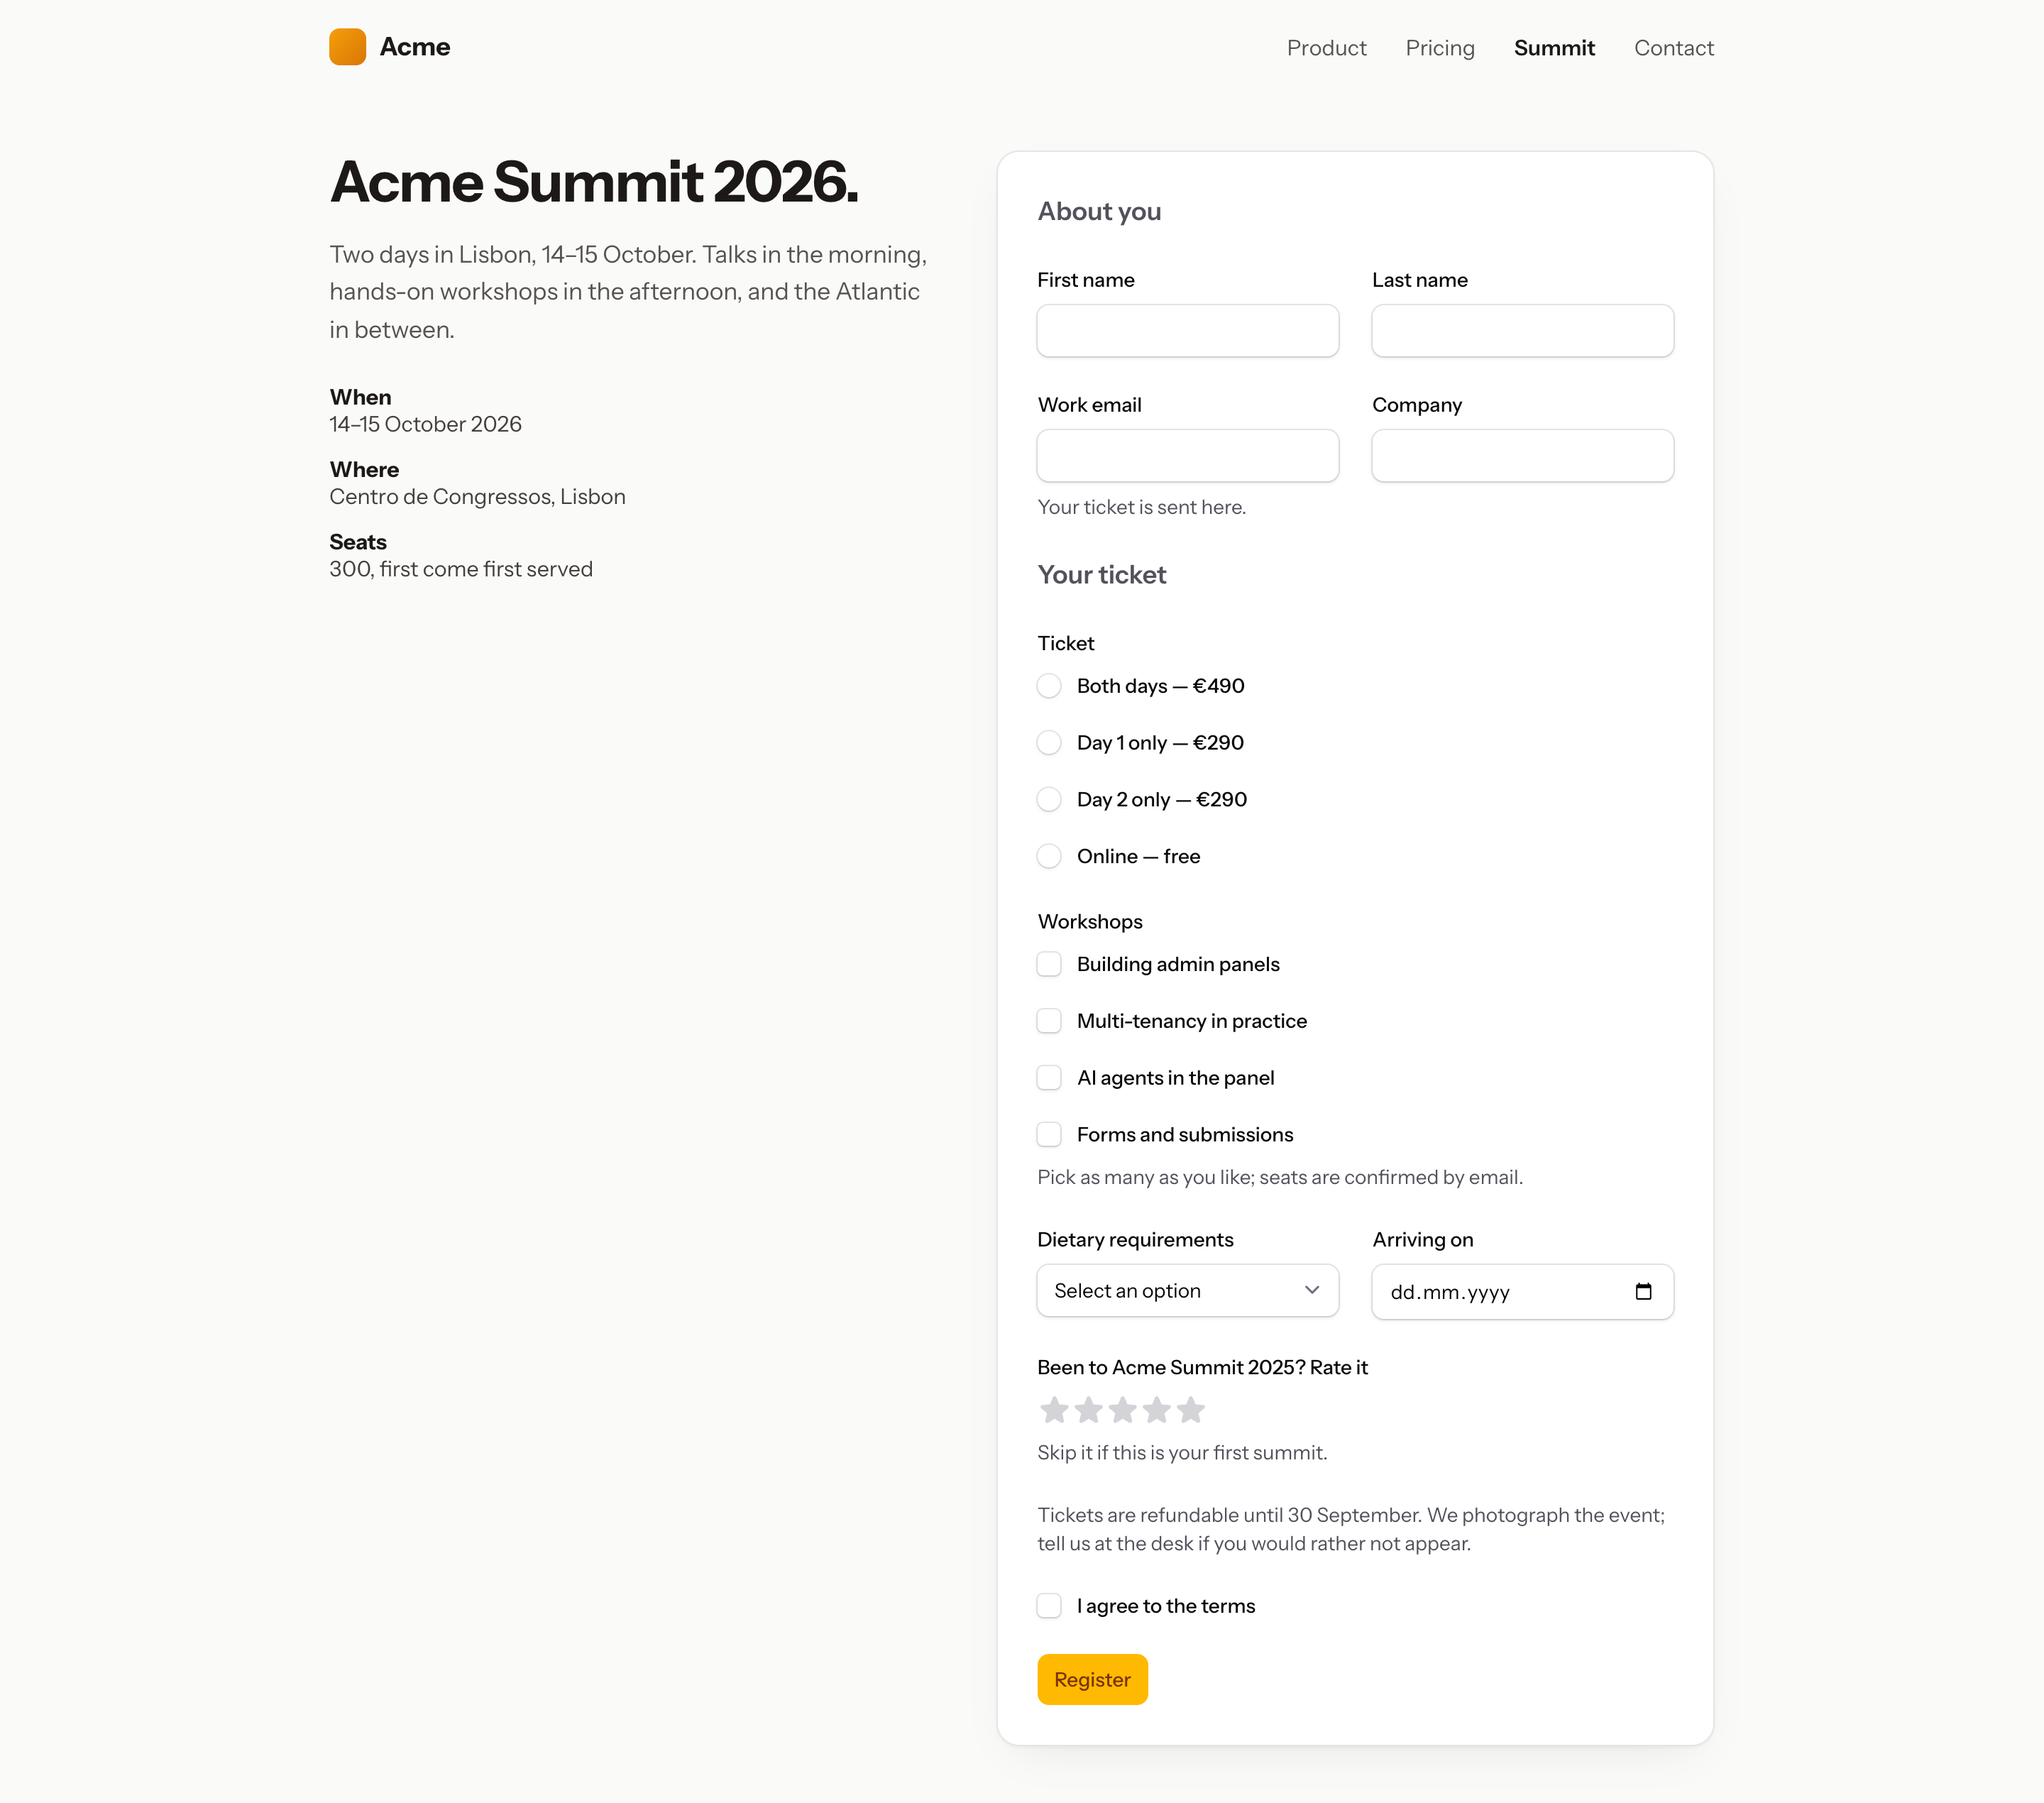
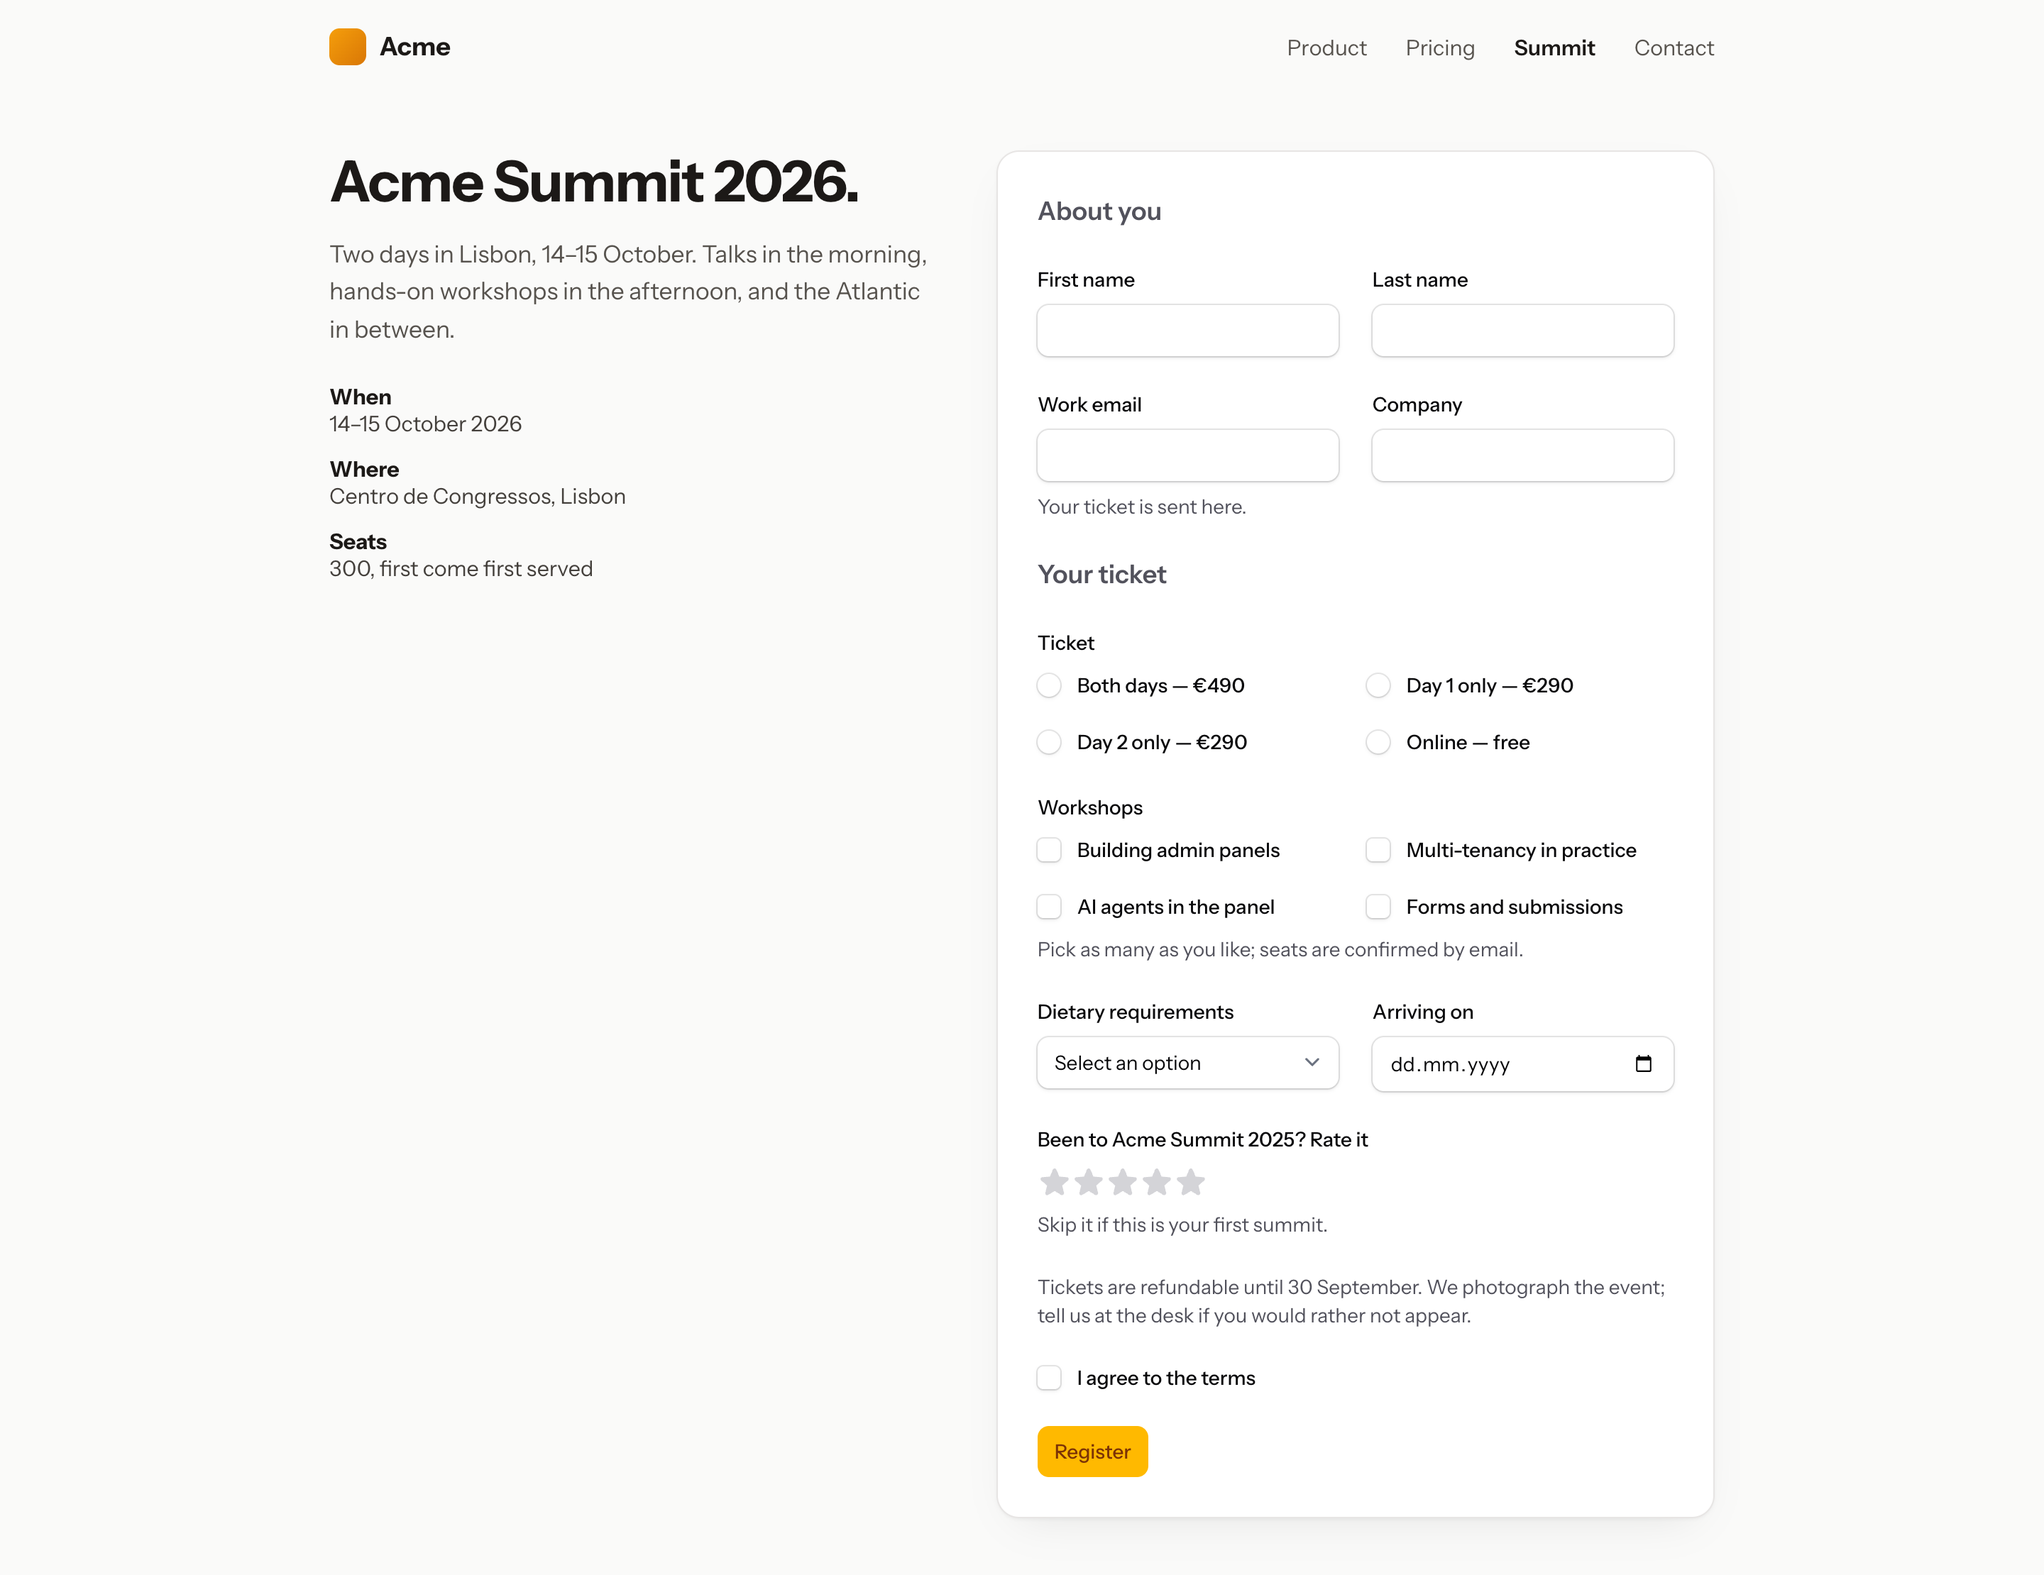
Columns setting on radio buttons and checkbox lists (1 to 4): Filament's column layout in the Livewire renderer and the panel, a CSS grid in the Blade renderer that drops to one column under 640 px; rating-submissions and site-livewire screenshots retaken shorter

diff --git a/resources/css/form-builder.css b/resources/css/form-builder.css
@@ -33,6 +33,7 @@
 .fb-form .fb-fieldset{border:0;padding:0;margin:0;display:flex;flex-direction:column;gap:.375rem;min-width:0}
 .fb-form .fb-fieldset legend{padding:0;margin-bottom:.375rem}
 .fb-form .fb-choices{display:flex;flex-direction:column;gap:.5rem}
+@media (min-width:640px){.fb-form .fb-choices--columns{display:grid;grid-template-columns:repeat(var(--fb-choice-columns),minmax(0,1fr));gap:.5rem 1rem}}
 .fb-form .fb-address__parts{display:grid;grid-template-columns:repeat(2,minmax(0,1fr));gap:.75rem 1rem}
 .fb-form .fb-address__part{display:flex;flex-direction:column;gap:.25rem;min-width:0;grid-column:span 2}
 @media (min-width:640px){.fb-form .fb-address__part--city,.fb-form .fb-address__part--region,.fb-form .fb-address__part--postal-code,.fb-form .fb-address__part--country{grid-column:span 1}}

diff --git a/tests/Feature/FieldTypesTest.php b/tests/Feature/FieldTypesTest.php
@@ -65,3 +65,19 @@ it('formats values through the field type', function (): void {
         ->and($checkbox->type->format(true, $checkbox))->toBe('Yes')
         ->and($checkbox->type->format(false, $checkbox))->toBe('No');
 });
+
+it('gives radio buttons and checkbox lists a number of columns, toggle buttons none', function (): void {
+    $registry = app(FieldTypeRegistry::class);
+    $radio = Field::fromArray(field('radio', 'Ticket', ['choices' => ['a' => 'A'], 'columns' => '3']), $registry);
+    $list = Field::fromArray(field('checkboxes', 'Workshops', ['choices' => ['a' => 'A'], 'columns' => 2]), $registry);
+    $plain = Field::fromArray(field('radio', 'Plain', ['choices' => ['a' => 'A']]), $registry);
+    $buttons = Field::fromArray(field('toggle_buttons', 'Size', ['choices' => ['a' => 'A'], 'columns' => 3]), $registry);
+
+    expect($radio->type->choiceColumns($radio))->toBe(3)
+        ->and($radio->type->formComponent($radio)->getColumns('sm'))->toBe(3)
+        ->and($list->type->formComponent($list)->getColumns('sm'))->toBe(2)
+        ->and($plain->type->choiceColumns($plain))->toBe(1)
+        ->and($buttons->type->choiceColumns($buttons))->toBe(1)
+        ->and(collect($registry->get('radio')->editorSchema())->map->getName()->all())->toContain('columns')
+        ->and(collect($registry->get('toggle_buttons')->editorSchema())->map->getName()->all())->not->toContain('columns');
+});

diff --git a/src/Fields/Types/CheckboxesField.php b/src/Fields/Types/CheckboxesField.php
@@ -4,6 +4,7 @@ namespace Packstub\FormBuilder\Fields\Types;
 
 use Filament\Forms\Components\CheckboxList;
 use Filament\Schemas\Components\Component;
+use Filament\Support\Enums\GridDirection;
 use Packstub\FormBuilder\Fields\Concerns\HasChoices;
 use Packstub\FormBuilder\Fields\Field;
 use Packstub\FormBuilder\Fields\FieldType;
@@ -20,6 +21,11 @@ class CheckboxesField extends FieldType
     public function icon(): string
     {
         return 'heroicon-o-list-bullet';
+    }
+
+    public function hasChoiceColumns(): bool
+    {
+        return true;
     }
 
     public function hasPlaceholder(): bool
@@ -68,6 +74,12 @@ class CheckboxesField extends FieldType
 
     public function formComponent(Field $field): Component
     {
-        return $this->configure(CheckboxList::make($field->key)->options($field->choices()), $field);
+        $list = CheckboxList::make($field->key)->options($field->choices());
+
+        if (($columns = $this->choiceColumns($field)) > 1) {
+            $list->columns(['default' => 1, 'sm' => $columns])->gridDirection(GridDirection::Row);
+        }
+
+        return $this->configure($list, $field);
     }
 }

diff --git a/src/Fields/Concerns/HasChoices.php b/src/Fields/Concerns/HasChoices.php
@@ -44,7 +44,31 @@ trait HasChoices
                 ->required($manual)
                 ->visible($manual)
                 ->columnSpanFull(),
+            ...($this->hasChoiceColumns() ? [
+                Select::make('columns')
+                    ->label(__('packstub-form-builder::form-builder.editor.choice_columns'))
+                    ->helperText(__('packstub-form-builder::form-builder.editor.choice_columns_hint'))
+                    ->options(array_combine(range(1, 4), array_map('strval', range(1, 4))))
+                    ->default(1)
+                    ->selectablePlaceholder(false),
+            ] : []),
         ];
+    }
+
+    /**
+     * Whether the choices can be laid out in several columns (radio buttons, checkbox list).
+     */
+    public function hasChoiceColumns(): bool
+    {
+        return false;
+    }
+
+    /**
+     * The number of columns the choices are laid out in, from 1 to 4.
+     */
+    public function choiceColumns(Field $field): int
+    {
+        return $this->hasChoiceColumns() ? max(1, min(4, (int) ($field->option('columns') ?: 1))) : 1;
     }
 
     /**

diff --git a/src/Fields/Types/RadioField.php b/src/Fields/Types/RadioField.php
@@ -4,6 +4,7 @@ namespace Packstub\FormBuilder\Fields\Types;
 
 use Filament\Forms\Components\Radio;
 use Filament\Schemas\Components\Component;
+use Filament\Support\Enums\GridDirection;
 use Packstub\FormBuilder\Fields\Concerns\HasChoices;
 use Packstub\FormBuilder\Fields\Field;
 use Packstub\FormBuilder\Fields\FieldType;
@@ -22,6 +23,11 @@ class RadioField extends FieldType
         return 'heroicon-o-check-circle';
     }
 
+    public function hasChoiceColumns(): bool
+    {
+        return true;
+    }
+
     public function hasPlaceholder(): bool
     {
         return false;
@@ -34,6 +40,12 @@ class RadioField extends FieldType
 
     public function formComponent(Field $field): Component
     {
-        return $this->configure(Radio::make($field->key)->options($field->choices()), $field);
+        $radio = Radio::make($field->key)->options($field->choices());
+
+        if (($columns = $this->choiceColumns($field)) > 1) {
+            $radio->columns(['default' => 1, 'sm' => $columns])->gridDirection(GridDirection::Row);
+        }
+
+        return $this->configure($radio, $field);
     }
 }

diff --git a/tests/Feature/BladeComponentTest.php b/tests/Feature/BladeComponentTest.php
@@ -112,3 +112,16 @@ it('scopes every stylesheet rule under .fb-form', function (): void {
         }
     }
 });
+
+it('lays radio buttons and a checkbox list out in columns', function (): void {
+    contactForm(['fields' => [
+        field('radio', 'Ticket', ['choices' => ['a' => 'A', 'b' => 'B'], 'columns' => 2]),
+        field('checkboxes', 'Workshops', ['choices' => ['a' => 'A', 'b' => 'B'], 'columns' => '9']),
+        field('radio', 'Plain', ['choices' => ['a' => 'A']]),
+    ]]);
+
+    $html = $this->get('/contact-us')->assertOk()->getContent();
+
+    expect($html)
+        ->toContain('<div class="fb-choices fb-choices--columns" style="--fb-choice-columns: 2">', 'style="--fb-choice-columns: 4"', '<div class="fb-choices">', '.fb-choices--columns{');
+});

diff --git a/resources/views/fields/radio.blade.php b/resources/views/fields/radio.blade.php
@@ -5,7 +5,11 @@
             <span class="fb-required" aria-hidden="true">*</span>
         @endif
     </legend>
-    <div class="fb-choices">
+    @if (($columns = $field->type->choiceColumns($field)) > 1)
+        <div class="fb-choices fb-choices--columns" style="--fb-choice-columns: {{ $columns }}">
+    @else
+        <div class="fb-choices">
+    @endif
         @foreach ($field->choices() as $choiceValue => $choiceLabel)
             <label class="fb-choice" for="{{ $inputId }}-{{ $loop->index }}">
                 <input type="radio" id="{{ $inputId }}-{{ $loop->index }}" name="{{ $field->key }}" value="{{ $choiceValue }}" @checked((string) $value === (string) $choiceValue) @if ($field->required && ! $field->isConditional()) required @endif>

diff --git a/resources/views/fields/checkboxes.blade.php b/resources/views/fields/checkboxes.blade.php
@@ -6,7 +6,11 @@
             <span class="fb-required" aria-hidden="true">*</span>
         @endif
     </legend>
-    <div class="fb-choices">
+    @if (($columns = $field->type->choiceColumns($field)) > 1)
+        <div class="fb-choices fb-choices--columns" style="--fb-choice-columns: {{ $columns }}">
+    @else
+        <div class="fb-choices">
+    @endif
         @foreach ($field->choices() as $choiceValue => $choiceLabel)
             <label class="fb-choice" for="{{ $inputId }}-{{ $loop->index }}">
                 <input type="checkbox" id="{{ $inputId }}-{{ $loop->index }}" name="{{ $field->key }}[]" value="{{ $choiceValue }}" @checked(in_array((string) $choiceValue, $selected, true))>

diff --git a/resources/lang/en/form-builder.php b/resources/lang/en/form-builder.php
@@ -238,6 +238,8 @@ return [
         'accepted_types_hint' => 'Comma-separated extensions or MIME types. Empty accepts any.',
         'max_kb' => 'Maximum size (KB)',
         'inline' => 'Show the choices on one line',
+        'choice_columns' => 'Columns',
+        'choice_columns_hint' => 'Lay the choices out in up to four columns; one on small screens.',
         'link_text' => 'Link text',
         'link_url' => 'Link URL',
         'countries' => 'Countries',

diff --git a/src/Fields/Types/ToggleButtonsField.php b/src/Fields/Types/ToggleButtonsField.php
@@ -21,6 +21,11 @@ class ToggleButtonsField extends RadioField
         return 'heroicon-o-squares-2x2';
     }
 
+    public function hasChoiceColumns(): bool
+    {
+        return false;
+    }
+
     public function view(): string
     {
         return 'packstub-form-builder::fields.toggle-buttons';

diff --git a/CHANGELOG.md b/CHANGELOG.md
@@ -7,10 +7,11 @@ All notable changes to `packstub/filament-form-builder` are documented here.
 ### Added
 
 - **Rating with packstub/filament-rating** (#14): when the package is installed, the Rating field uses its star input in the Livewire renderer and the preview, a star column with the average and the distribution in the submissions table, a "4 stars & up" filter and stars in the submission details. The star column sorts by the score as a number (10 after 9, also on MySQL and Postgres). Detected, never required; the stored score is unchanged, so installing or removing the package changes only how ratings look. A field type can give its own details entry with `detailEntry()`.
+- **Choices in columns**: radio buttons and a checkbox list lay their choices out in up to four columns (**Columns** on the field), in the Blade and the Livewire renderers and the panel; one column on small screens. Stored in the field's options, so the JSON definition carries it too.
 
 ### Changed
 
-- **Docs**: a shorter Features list in the README and on the docs index, one line per area; the field types sit in a table under Building a form. Screenshots of the star input and the star column (`rating-input.png`, `rating-submissions.png`) under With packstub/filament-rating; the Livewire screenshot shows a rating field.
+- **Docs**: a shorter Features list in the README and on the docs index, one line per area; the field types sit in a table under Building a form. Screenshots of the star input and the star column (`rating-input.png`, `rating-submissions.png`) under With packstub/filament-rating; the Livewire screenshot shows a rating field and the ticket and workshop choices in two columns; the star column screenshot without the Summary and answer columns, one line per row.
 
 ## 1.3.0 — 2026-10-01
 

diff --git a/docs/building-forms.md b/docs/building-forms.md
@@ -22,11 +22,11 @@ Open **Forms**, create one, and add fields from the block picker on the **Fields
 | Rich text | HTML (safe tags only) | Rows; a rich editor in the Livewire renderer, a text area elsewhere |
 | Dropdown | one choice | Choices (value → label) |
 | Multi-select | list of choices | Choices |
-| Radio buttons | one choice | Choices |
+| Radio buttons | one choice | Choices, in up to four columns |
 | Toggle buttons | one choice | Choices, shown as a row of buttons |
 | Checkbox | true / false | Required means it must be ticked |
 | Toggle | true / false | A switch; same value as a checkbox |
-| Checkbox list | list of choices | Choices |
+| Checkbox list | list of choices | Choices, in up to four columns |
 | Tags | list of strings | Maximum number; comma-separated in the plain renderer |
 | Rating | 1 to N | The scale (1 to 10); stars in the panel with [packstub/filament-rating](#with-packstubfilament-rating) |
 | Date | `Y-m-d` | Earliest and latest date |
